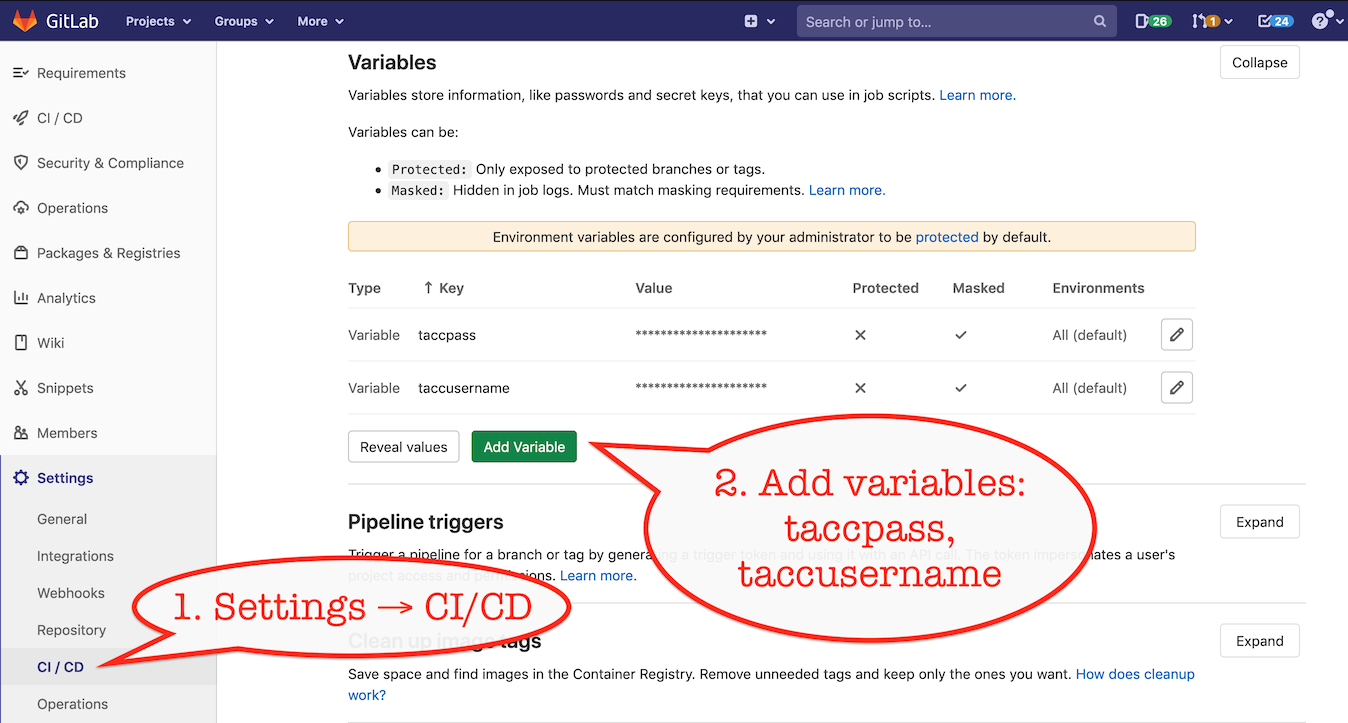
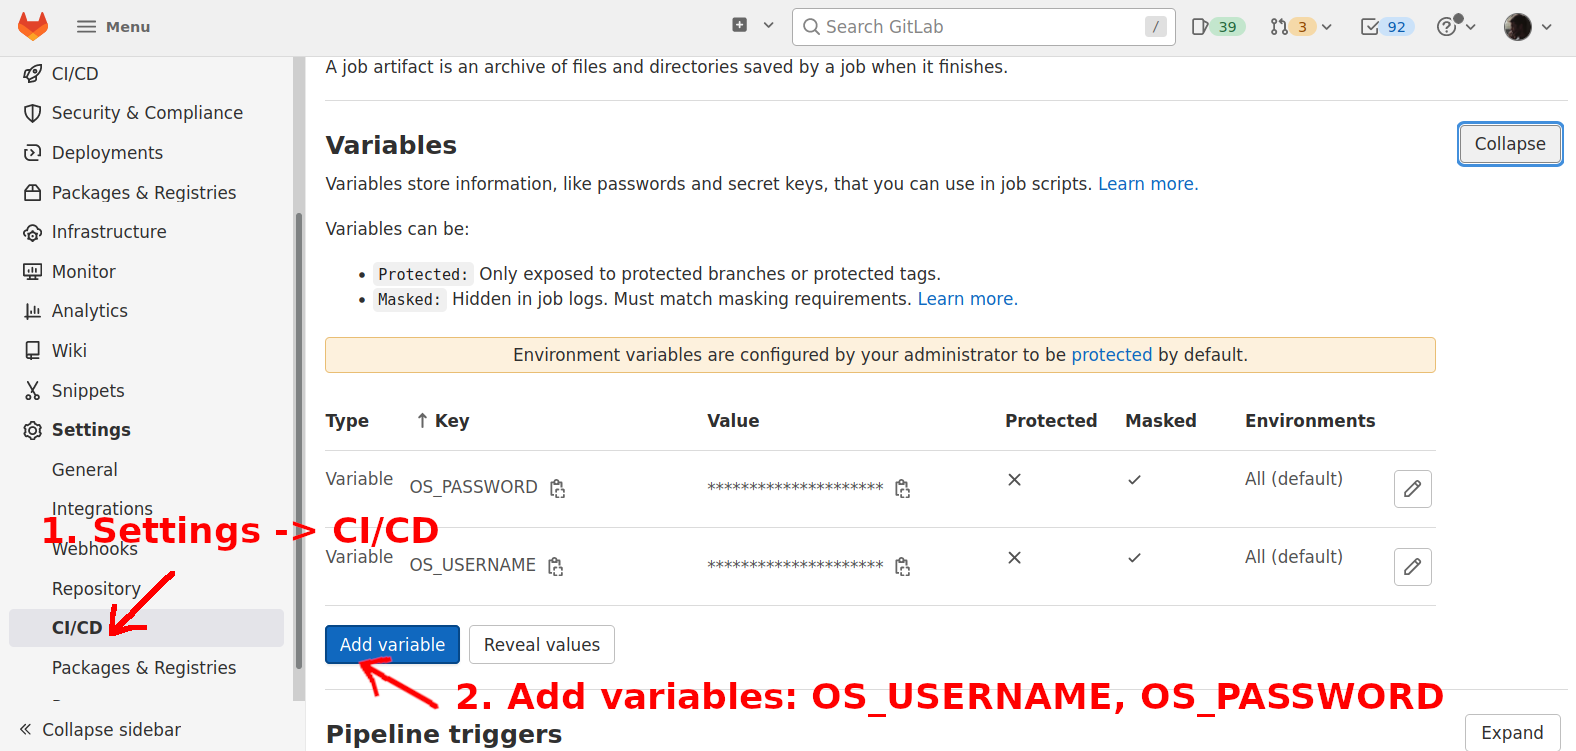
Use Jetstream2 for running browser tests
This requires using OpenStack credentials instead of TACC credentials.

diff --git a/integration-tests/features/steps/steps.py b/integration-tests/features/steps/steps.py
@@ -132,34 +132,36 @@ def i_press_label_radiobutton(context, label):
 
 @step(u'I click the "{label}" card')
 @persona_vars
-def see_unique_instance_name_within(context, label):
+def i_click_card_with_label(context, label):
     context.execute_steps(f"""
     When I press the last element with xpath "//div[contains(string(),'{label}')]"
     """)
 
 
-@step("I enter TACC credentials")
+@step("I enter OpenStack credentials")
 @persona_vars
 def i_login_to_exosphere(context):
-    taccusername = os.environ.get('taccusername')
-    taccpass = os.environ.get('taccpass')
+    os_auth_url = os.environ.get('OS_AUTH_URL', 'https://js2.jetstream-cloud.org:5000/v3/')
+    os_user_domain_name = os.environ.get('OS_USER_DOMAIN_NAME', 'xsede')
+    os_username = os.environ.get('OS_USERNAME')
+    os_password = os.environ.get('OS_PASSWORD')
     context.execute_steps(f"""
-    Then I fill input labeled "TACC Username" with "{taccusername}"
-    And I fill input labeled "TACC Password" with "{taccpass}"
+    Then I fill input labeled "Keystone auth URL" with "{os_auth_url}"
+    Then I fill input labeled "User Domain (name or ID)" with "{os_user_domain_name}"
+    Then I fill input labeled "User Name" with "{os_username}"
+    Then I fill input labeled "Password" with "{os_password}"
     """)
 
-
-@step('I add a Jetstream1 Account for allocation "{allocation}"')
+@when('I add an OpenStack project "{project}"')
 @persona_vars
-def i_add_jetstream1_account_for_allocation(context, allocation):
+def i_add_openstack_project(context, project):
     context.execute_steps(f"""
-    When I click the "Add Jetstream1 Account" button
-    Then I should see "Add a Jetstream1 Account" within 15 seconds
-    When I enter TACC credentials
-    And I click the "IU Cloud" radio button
+    When I click the "Add OpenStack Account" button
+    Then I should see "Add an OpenStack Account" within 15 seconds
+    When I enter OpenStack credentials
     And I click the "Log In" button
-    And I should see "{allocation}" within 15 seconds
-    When I click the "{allocation}" checkbox
+    Then I should see "{project}" within 15 seconds
+    When I click the "{project}" checkbox
     And I click the "Choose" button
     Then I wait for 2 seconds
     """)

diff --git a/contributing.md b/contributing.md
@@ -90,13 +90,14 @@ Our CI pipeline also runs end-to-end tests with real browsers.  If you are a reg
 
 For these tests to work, you will need:
 
-1. Access to a Jetstream1 allocation
-2. Valid TACC (Texas Advanced Computing Center) credentials
-3. Set `taccusername` and `taccpass` environment variables in the GitLab CI/CD settings of your own fork of Exosphere
+1. An XSEDE account (Go to https://portal.xsede.org/ and create one)
+2. Access to the "Exosphere Integration Testing" (TG-INI210003) Jetstream allocation
+3. A Jetstream administrator to set an OpenStack password for your account
+4Set `OS_USERNAME` and `OS_PASSWORD` environment variables in the GitLab CI/CD settings of your own fork of Exosphere
 
-If you do not have items 1 or 2, please ask the maintainers for a set of testing credentials.
+If you do not have access to the TG-INI210003 Jetstream allocation, please ask the maintainers for a set of testing credentials.
 
-Here is how to add TACC credentials as environment variables to your GitLab repository settings:
+Here is how to add OpenStack credentials as environment variables to your GitLab repository settings:
 
 ![Environment variables for end-to-end browser tests](docs/assets/environment-variables-e2e-browser-tests.png)
 

diff --git a/integration-tests/README.md b/integration-tests/README.md
@@ -28,13 +28,13 @@ python3 -m pip install --requirement requirements.txt
 
 ## Usage
 
-Set your TACC credentials as environment variables:
+Set your OpenStack credentials as environment variables:
 
 ```bash
-read -p "Enter your TACC username: " taccusername
-read -p "Enter your TACC password: " -s taccpass
-export taccusername
-export taccpass
+read -p "Enter your OpenStack username: " OS_USERNAME
+read -p "Enter your OpenStack password: " -s OS_PASSWORD
+export OS_USERNAME
+export OS_PASSWORD
 ```
 
 Run all the Exosphere scenarios in order: 
